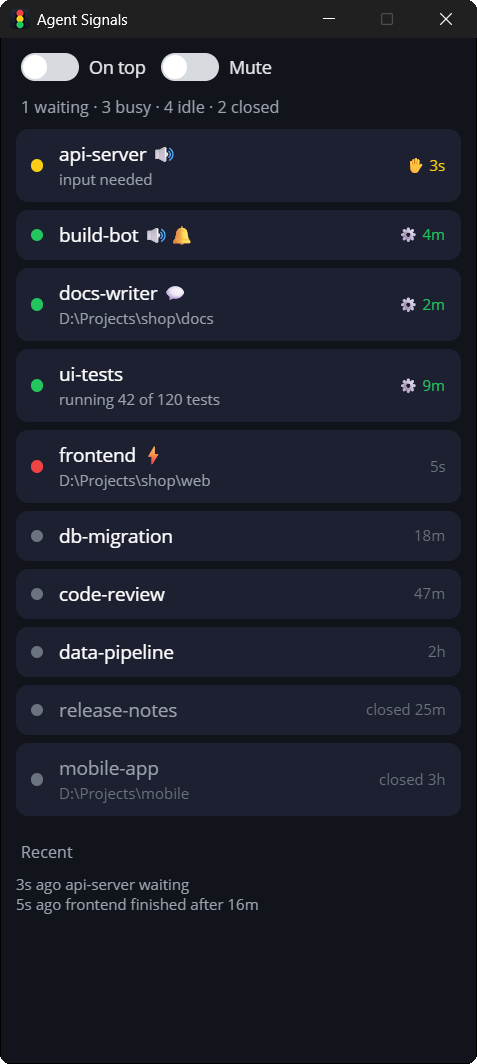
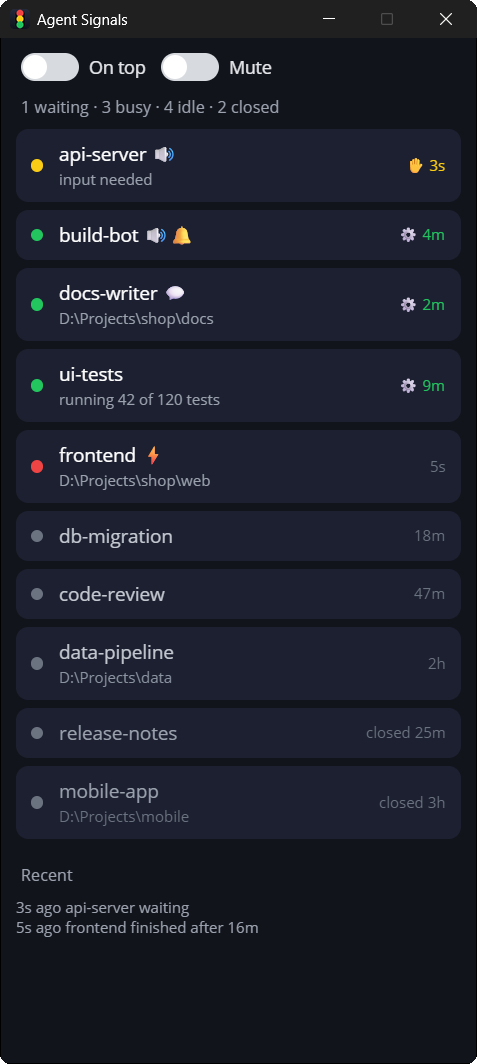
Idle sessions you have seen: their text steps back (soft white), closed further; white is for what needs you
Claude-Session: https://claude.ai/code/session_01MRKX6dThumLK7V6QQPno4S

diff --git a/src/lib.rs b/src/lib.rs
@@ -450,6 +450,12 @@ fn status_color(status: &str) -> Color {
 }
 
 /// One session: status dot, name, note / what it waits for / folder, status and for how long.
+/// Idle and already seen (gray dot): its text steps back from the white of the sessions that need
+/// you (working, waiting, finished unseen), and closed sessions step back further.
+fn resting(app: &App, pid: u32) -> bool {
+    app.session(pid).is_some_and(|s| s.status == "idle" && !app.unseen.contains(&s.id))
+}
+
 /// Left click: select its terminal tab. Right click / Menu key: copy its name, close it.
 fn session_row(pid: u32, name: String) -> Build<SkiaShape> {
     let (focus, menu, tint) = (name.clone(), name.clone(), name.clone());
@@ -488,11 +494,13 @@ fn session_row(pid: u32, name: String) -> Build<SkiaShape> {
                 }),
             SkiaStack::new().margin((22, 0, 84, 0)).spacing(2).children((
                 label(&name, 15).text_color(Color::WHITE).observe(move |me, app: &App| {
+                    me.set_text_color(if resting(app, pid) { hex(0xC4C9D1) } else { Color::WHITE });
                     let icons = state::rule_icons(&app.rules, &name);
                     me.set_text(if icons.is_empty() { name.clone() } else { format!("{name}  {icons}") });
                 }),
                 label("", 12).text_color(hex(0x9CA3AF)).max_lines(2).observe(move |me, app: &App| {
                     let Some(s) = app.session(pid) else { return };
+                    me.set_text_color(if resting(app, pid) { hex(0x8B93A1) } else { hex(0x9CA3AF) });
                     let note = app.notes.get(&s.name.to_lowercase()).map_or("", |n| n.as_str());
                     let text = if !note.is_empty() {
                         note.to_string()
